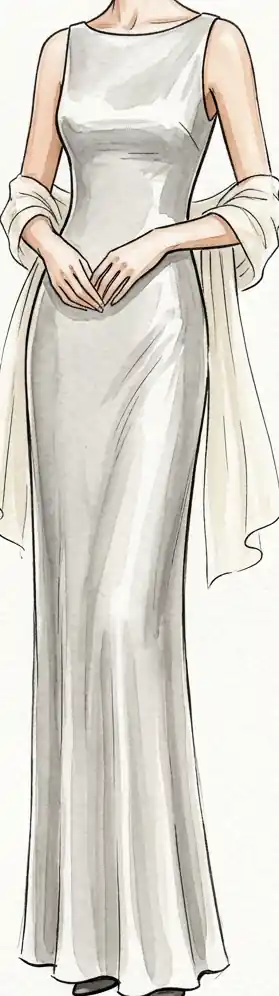
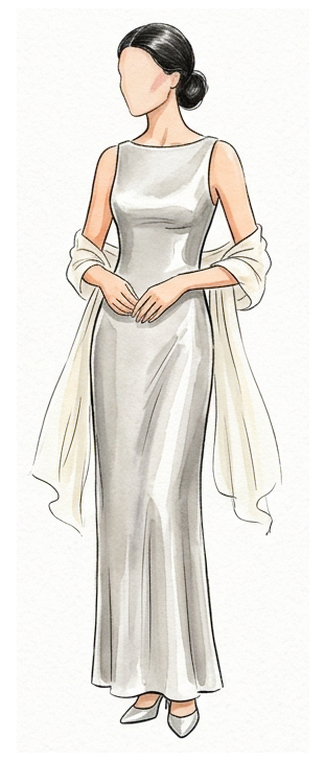
Attire models as transparent watercolour cutouts on the letter paper (equal heights, alpha-masked satin tint + shine pass); remove auto-flip wiggle on postcard + attire, clearer 'tap to avoid' instruction

diff --git a/components/public/attire.tsx b/components/public/attire.tsx
@@ -5,17 +5,17 @@ import type { Attire } from "@/lib/types";
 import { EASE } from "./fx";
 import { FlipHint, useFlip } from "./stickers";
 
-/** A watercolour figure recoloured with real satin shine: base art + multiply tint (masked to the fabric) + screen highlight. */
+/** A watercolour figure drawn straight onto the paper, recoloured in satin: transparent art + masked multiply tint + soft white shine. */
 function TinFigure({ kind, color, className = "" }: { kind: "man" | "woman"; color: string; className?: string }) {
-  const mask = `url(/img/attire-${kind}-mask.webp)`;
+  const mask = `url(/img/attire-${kind}-mask.png)`;
   return (
-    <div className={`relative ${className}`}>
-      <img src={`/img/attire-${kind}.webp`} alt="" className="w-full h-auto pointer-events-none select-none" draggable={false} />
+    <div className={`relative inline-block ${className}`}>
+      <img src={`/img/attire-${kind}.webp`} alt="" className="h-full w-auto pointer-events-none select-none" draggable={false} />
       <motion.div initial={false} animate={{ backgroundColor: color }} transition={{ duration: 0.8, ease: EASE }}
-        className="absolute inset-0 mix-blend-multiply"
-        style={{ WebkitMask: `${mask} no-repeat center / 100% 100% luminance`, mask: `${mask} no-repeat center / 100% 100% luminance` } as React.CSSProperties} />
+        className="absolute inset-0 mix-blend-multiply pointer-events-none"
+        style={{ WebkitMaskImage: mask, maskImage: mask, WebkitMaskSize: "100% 100%", maskSize: "100% 100%", WebkitMaskRepeat: "no-repeat", maskRepeat: "no-repeat" }} />
       <img src={`/img/attire-${kind}-hl.webp`} alt="" draggable={false}
-        className="absolute inset-0 w-full h-full mix-blend-screen pointer-events-none select-none" />
+        className="absolute inset-0 w-full h-full pointer-events-none select-none" />
     </div>
   );
 }
@@ -32,22 +32,22 @@ export function AttireGuide({ guests }: { guests?: Attire }) {
   const colors = guests?.colors?.length ? guests.colors : [{ name: "Olive", hex: "#5B5B2E" }];
   const [pick, setPick] = useState(0);
   const c = colors[Math.min(pick, colors.length - 1)];
-  const { flip, toggle, peek } = useFlip();
+  const { flip, toggle } = useFlip();
   return (
     <div className="max-w-4xl mx-auto mt-10 [perspective:1800px]">
-      <motion.div animate={flip ? { rotateY: 180 } : { rotateY: 0, ...peek }} transition={flip ? { duration: 1, ease: EASE } : { duration: 1.4, repeat: Infinity, repeatDelay: 3.2, ease: "easeInOut" }}
+      <motion.div animate={flip ? { rotateY: 180 } : { rotateY: 0 }} transition={{ duration: 1, ease: EASE }}
         className="grid [transform-style:preserve-3d]">
         {/* FRONT — the look */}
         <div className="[grid-area:1/1] [backface-visibility:hidden] paper-card deckle relative px-5 md:px-12 py-8 md:py-10 text-center shadow-[0_2px_3px_rgba(61,47,38,.15),0_30px_50px_-28px_rgba(61,47,38,.55)]">
           <p className="label text-wine font-semibold">Black tie · in earth tones</p>
           <p className="font-serif italic text-mocha text-lg md:text-xl mt-2 max-w-xl mx-auto">Floor-length column, sheath or slim A-line dresses · tuxedos or dark suits with a tie. Bring a light wrap or scarf — evenings can get cool.</p>
-          <div className="flex justify-center items-end gap-8 md:gap-16 mt-5">
+          <div className="flex justify-center items-end gap-6 md:gap-16 mt-5">
             <div>
-              <TinFigure kind="man" color={c.hex} className="w-28 md:w-40" />
+              <TinFigure kind="man" color={c.hex} className="h-64 md:h-[26rem]" />
               <p className="label text-taupe !text-[10px] mt-1">Tuxedo / dark suit</p>
             </div>
             <div>
-              <TinFigure kind="woman" color={c.hex} className="w-24 md:w-36" />
+              <TinFigure kind="woman" color={c.hex} className="h-64 md:h-[26rem]" />
               <p className="label text-taupe !text-[10px] mt-1">Column dress · with a wrap</p>
             </div>
           </div>
@@ -60,7 +60,7 @@ export function AttireGuide({ guests }: { guests?: Attire }) {
                 style={{ backgroundColor: col.hex, backgroundImage: "linear-gradient(135deg,rgba(255,255,255,.25),transparent 55%)" }} />
             ))}
           </div>
-          <div className="mt-6"><button type="button" onClick={toggle}><FlipHint label="Need help? What to avoid" /></button></div>
+          <div className="mt-6"><button type="button" onClick={toggle}><FlipHint label="Need help? Tap to see what to avoid" /></button></div>
         </div>
         {/* BACK — kindly avoid */}
         <div className="[grid-area:1/1] [backface-visibility:hidden] [transform:rotateY(180deg)] paper-card deckle relative px-5 md:px-12 py-8 md:py-10 text-center shadow-[0_2px_3px_rgba(61,47,38,.15),0_30px_50px_-28px_rgba(61,47,38,.55)]">

diff --git a/components/public/stickers.tsx b/components/public/stickers.tsx
@@ -132,24 +132,22 @@ export function FlipHint({ label = "Tap to flip", className = "" }: { label?: st
   );
 }
 
-/** Wraps a two-sided card: peeks (little wiggle) every few seconds until it has been flipped once. */
+/** Wraps a two-sided card: flips only when the guest taps the hint. */
 export function useFlip() {
   const [flip, setFlip] = useState(false);
-  const [used, setUsed] = useState(false);
-  const toggle = () => { setFlip((f) => !f); setUsed(true); };
-  const peek = used ? {} : { rotateY: [0, -16, 0, -8, 0] };
-  return { flip, toggle, peek, used };
+  const toggle = () => setFlip((f) => !f);
+  return { flip, toggle };
 }
 
 /** A personal vintage postcard you can flip — front: your photo + "Wish you were here", back: a handwritten note. */
 export function Postcard({ from, venue, date, photo }: { from: string; venue: string; date: string; photo?: string }) {
-  const { flip, toggle, peek } = useFlip();
+  const { flip, toggle } = useFlip();
   return (
     <section className="relative px-5 md:px-16 py-14 md:py-20">
       <motion.div initial={{ opacity: 0, y: 50, rotate: -6 }} whileInView={{ opacity: 1, y: 0, rotate: -2 }} viewport={{ once: true, margin: "-10%" }} transition={{ duration: 1.1, ease: EASE }}
         className="max-w-2xl mx-auto [perspective:1600px]">
         <button type="button" onClick={toggle} aria-label="Flip the postcard" className="relative block w-full aspect-[3/2] text-left">
-          <motion.div animate={flip ? { rotateY: 180 } : { rotateY: 0, ...peek }} transition={flip ? { duration: 1.1, ease: EASE } : { duration: 1.4, repeat: Infinity, repeatDelay: 2.6, ease: "easeInOut" }} className="absolute inset-0 [transform-style:preserve-3d]">
+          <motion.div animate={flip ? { rotateY: 180 } : { rotateY: 0 }} transition={{ duration: 1.1, ease: EASE }} className="absolute inset-0 [transform-style:preserve-3d]">
             {/* FRONT */}
             <div className="absolute inset-0 [backface-visibility:hidden] bg-[#FBF7EF] shadow-[0_2px_3px_rgba(61,47,38,.2),0_24px_40px_-18px_rgba(61,47,38,.5)] p-[3.5%] grid grid-cols-[1fr_1.1fr] gap-[4%]">
               <div className="relative bg-[#EDE3D4] p-[5%] shadow-[inset_0_0_0_1px_rgba(61,47,38,.1)] -rotate-2">
@@ -183,7 +181,7 @@ export function Postcard({ from, venue, date, photo }: { from: string; venue: st
             </div>
           </motion.div>
         </button>
-        <div className="text-center mt-6"><button type="button" onClick={toggle}><FlipHint label={flip ? "Flip back" : "Tap to turn over"} /></button></div>
+        <div className="text-center mt-6"><button type="button" onClick={toggle}><FlipHint label={flip ? "Tap to turn over again" : "Tap to turn over"} /></button></div>
       </motion.div>
     </section>
   );
